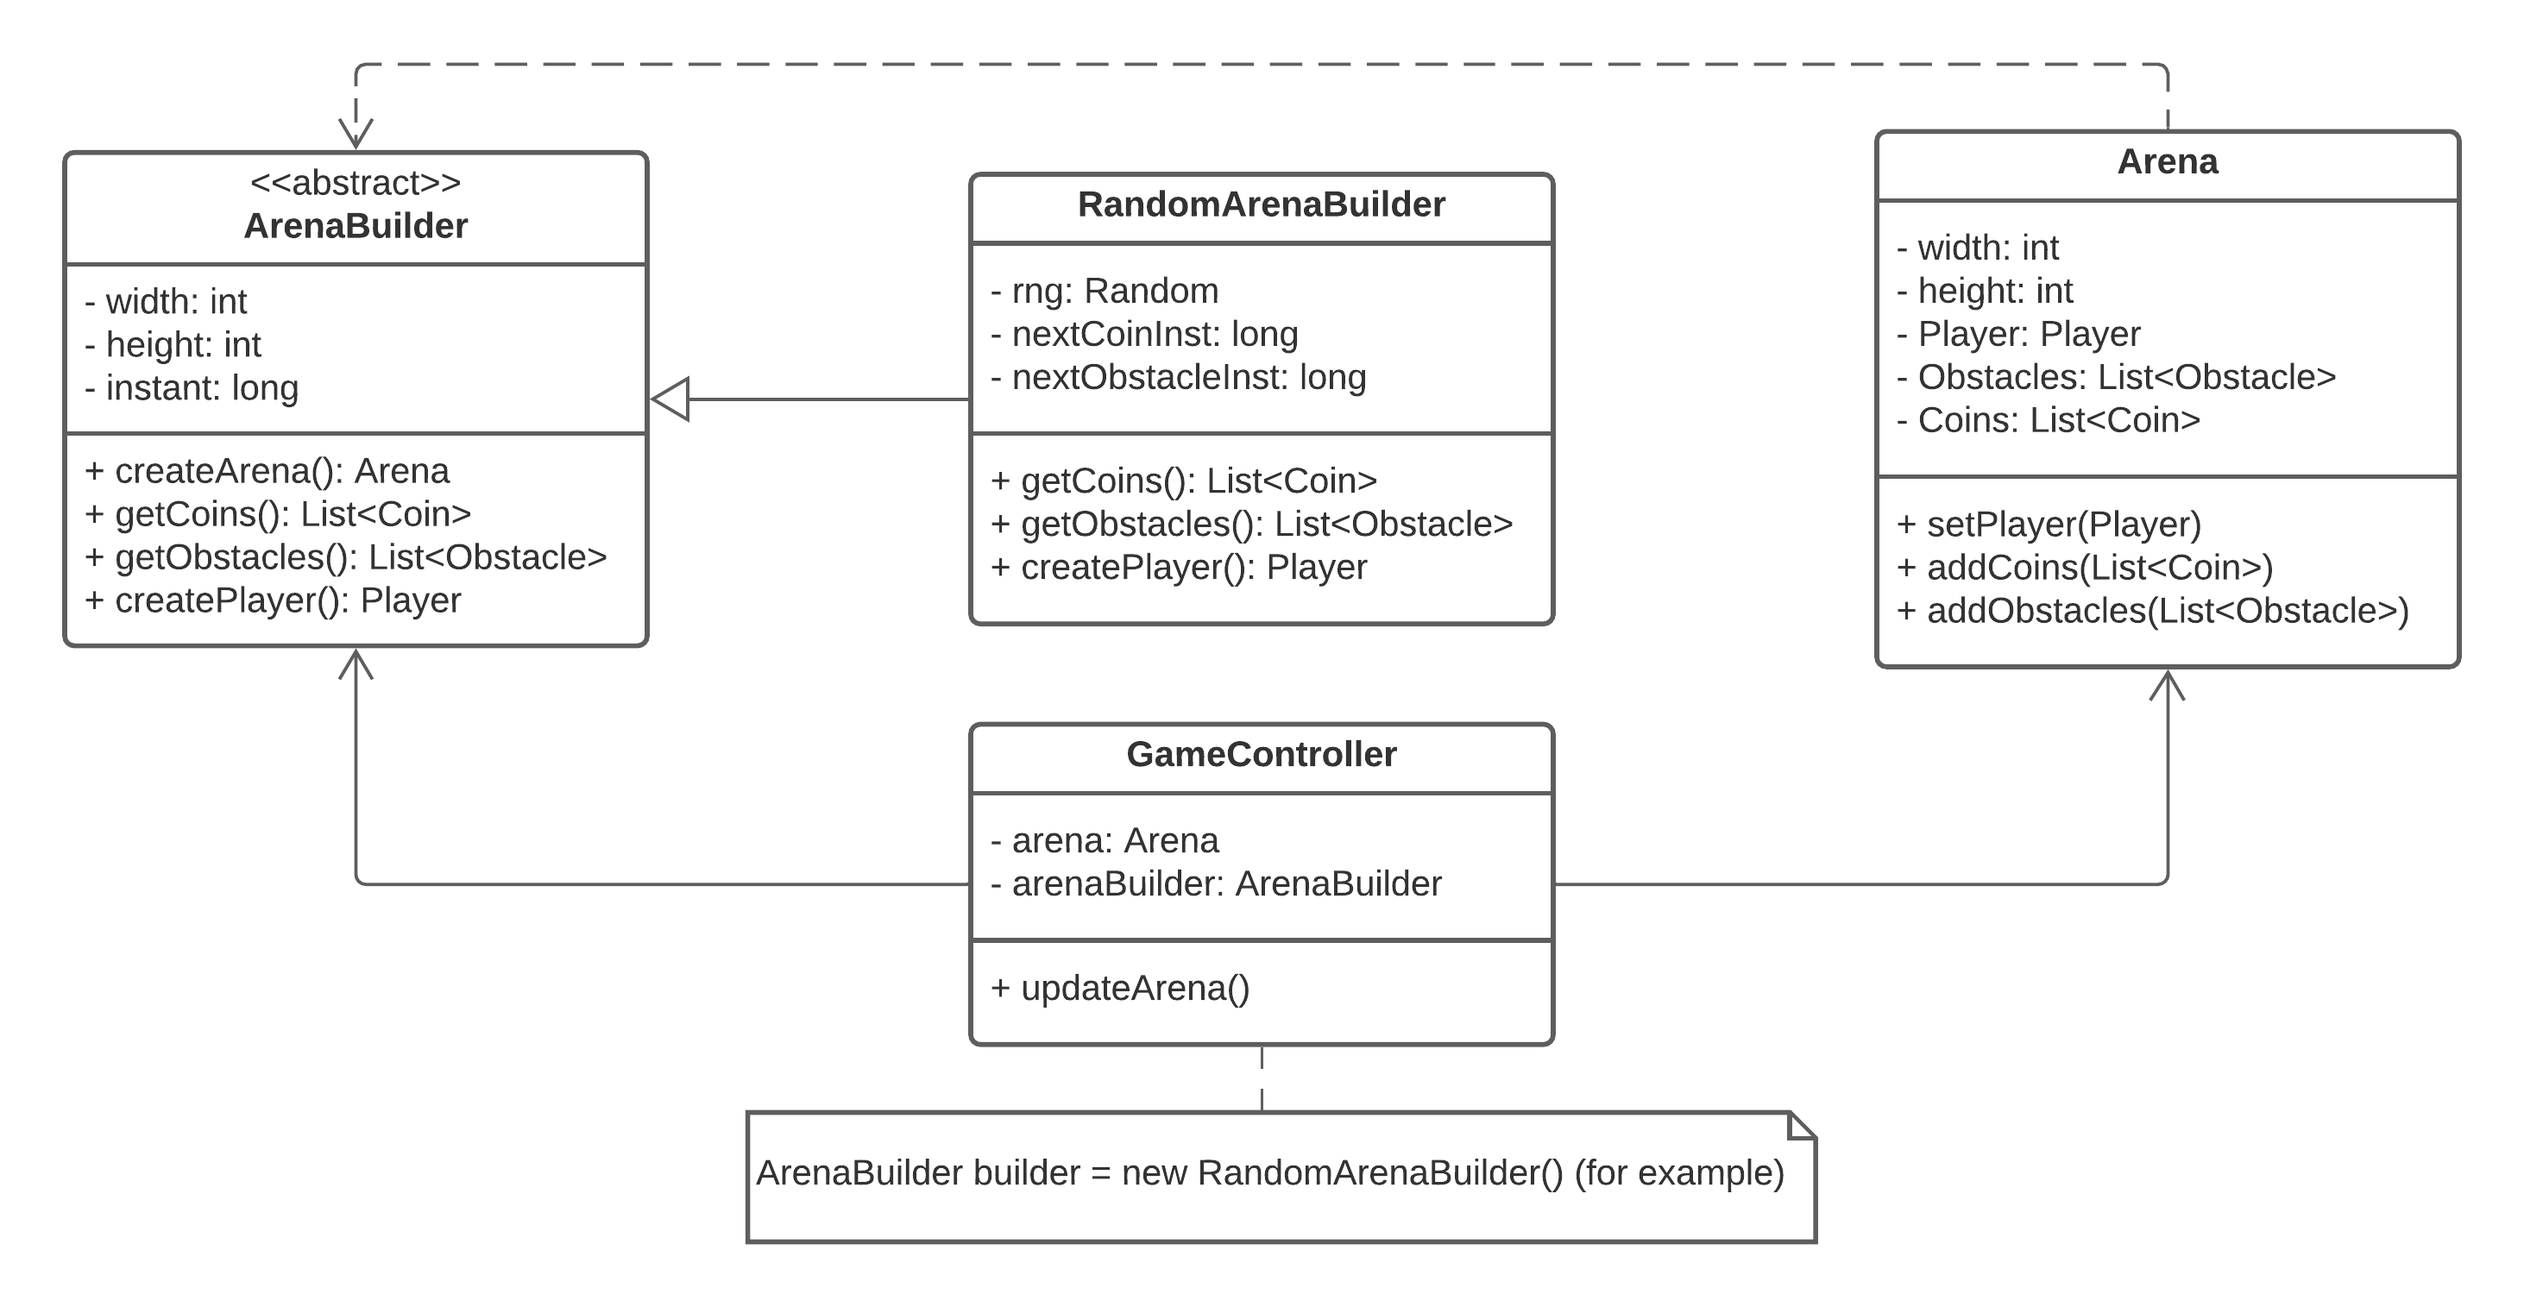
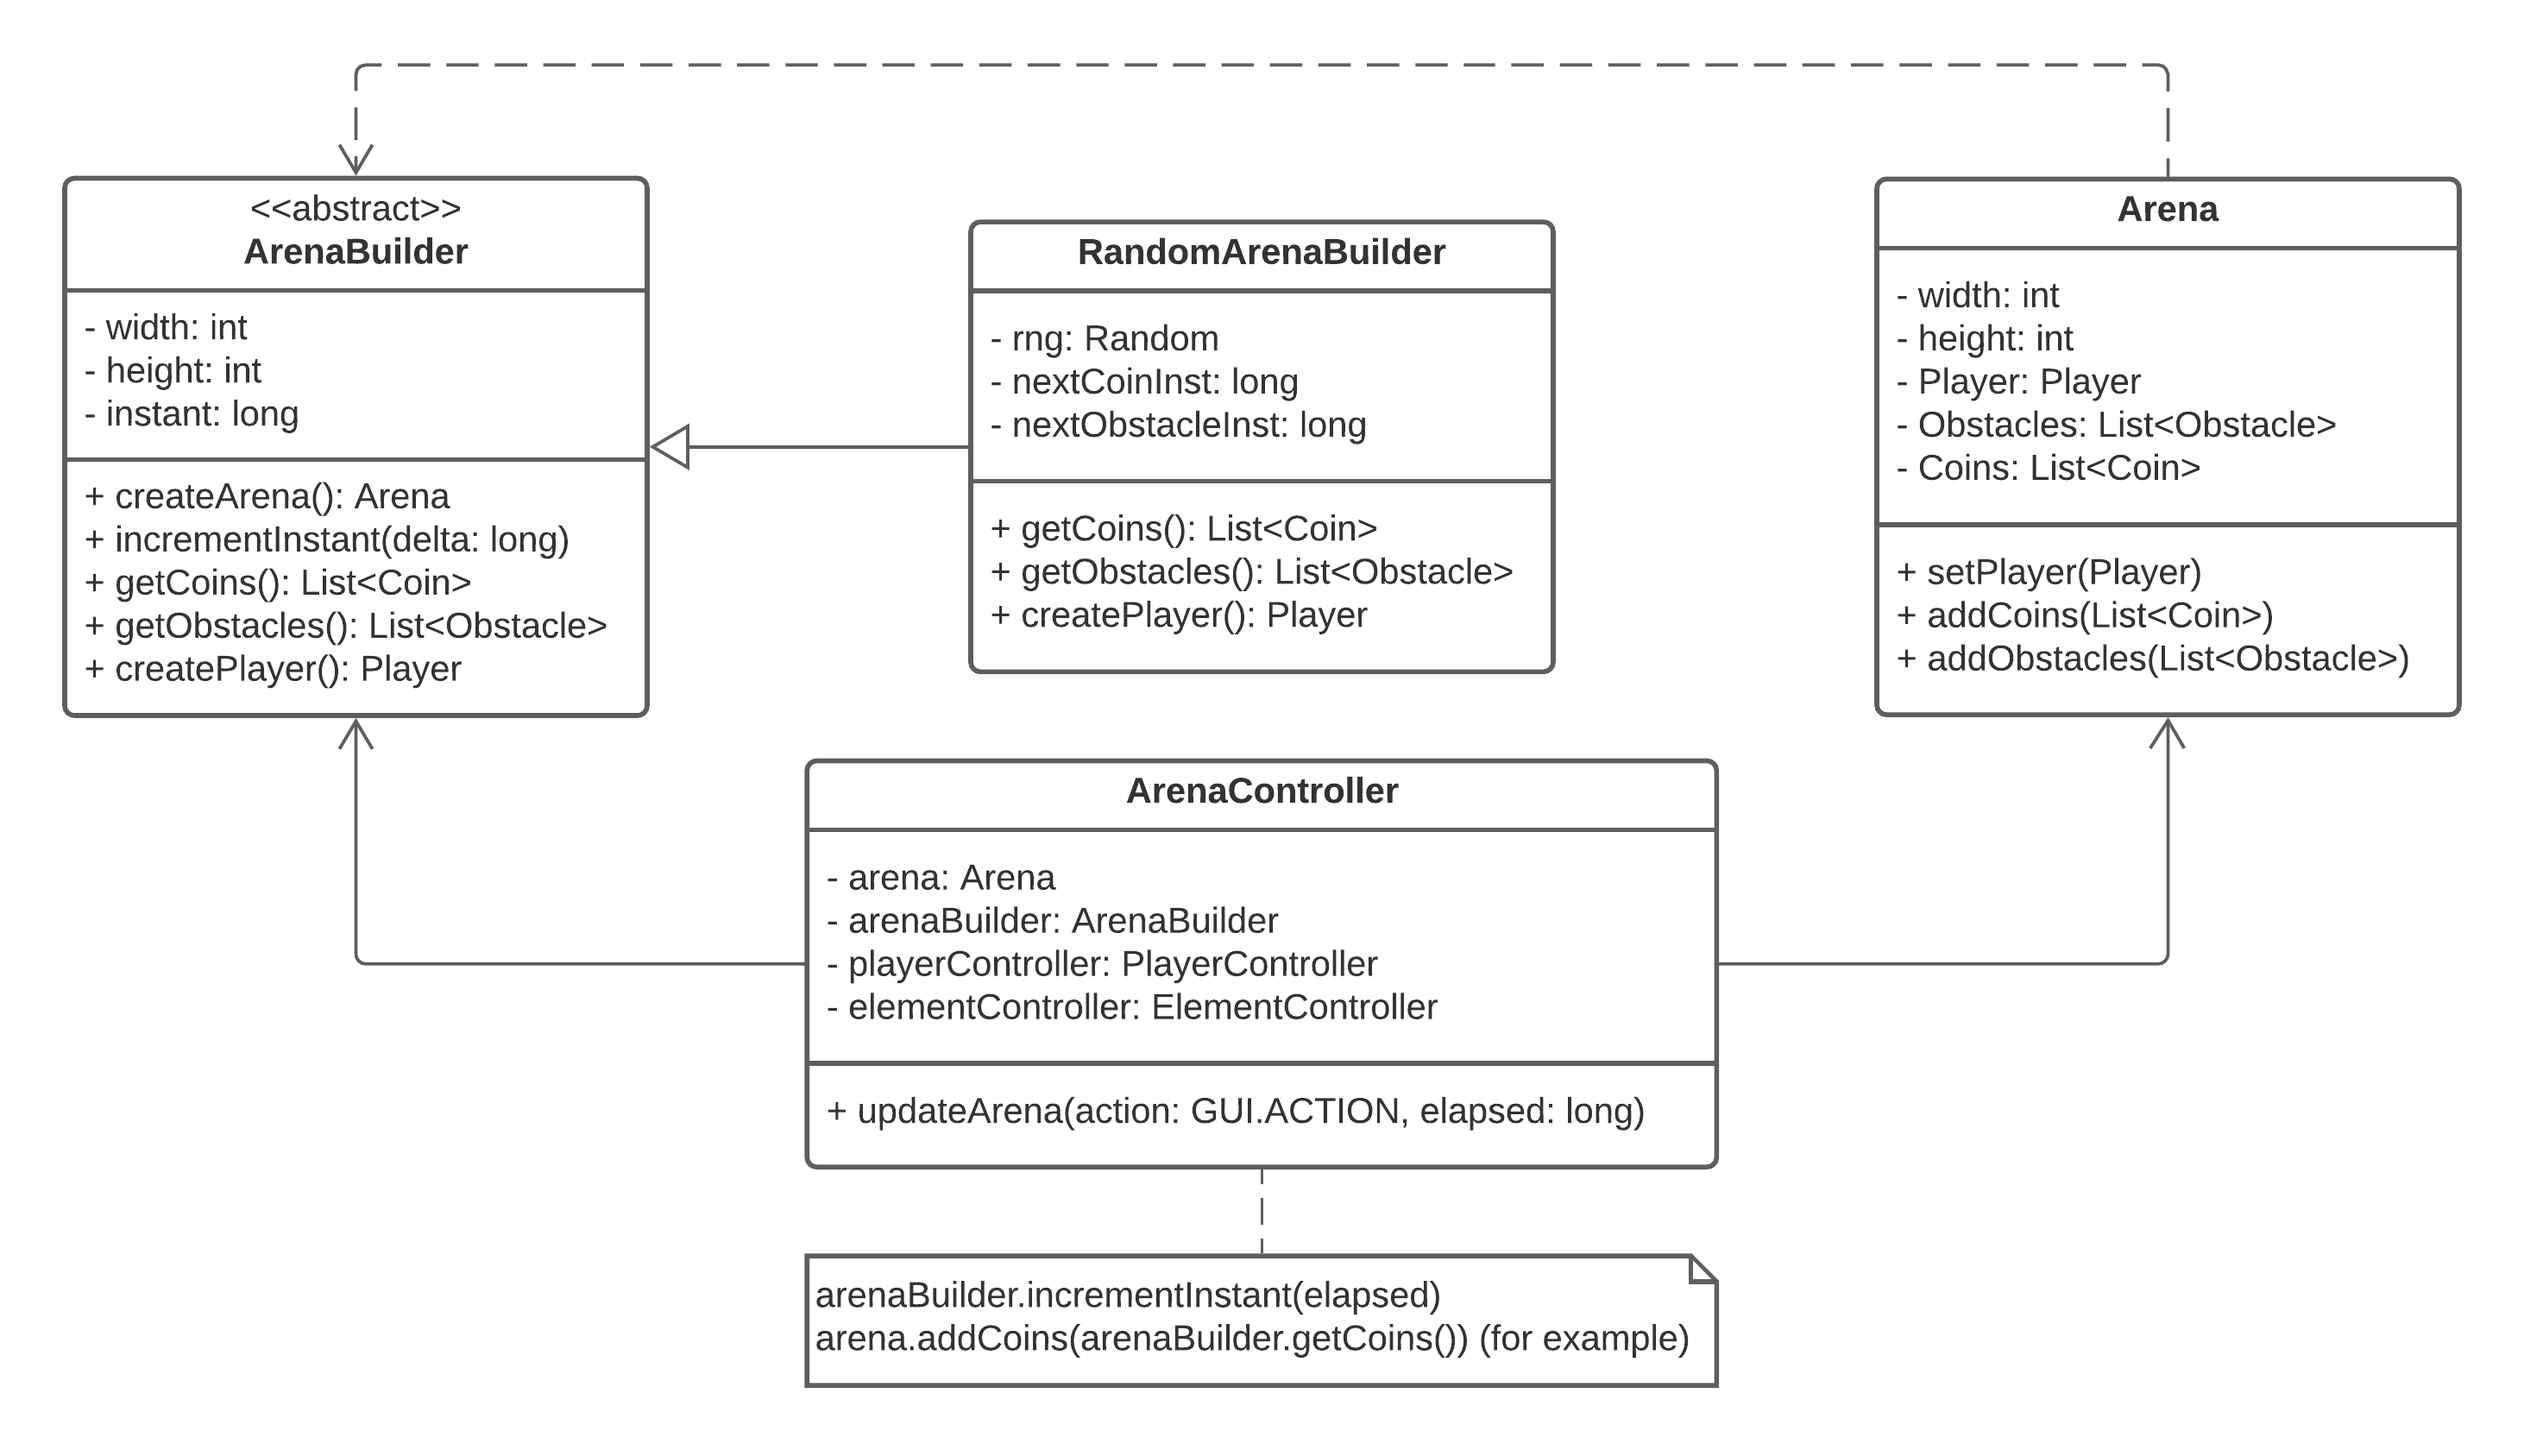
Changed UML, fixed some typos and embellished the report :sparkles:

diff --git a/docs/README.md b/docs/README.md
@@ -62,11 +62,11 @@ To allow the creation of an Arena of multiple ways, randomly or by reading it fr
 
 #### The pattern
 
-To solve this problem, we implemented an Abstract Factory pattern which, depending on the what form of arena creation we want, it creates Arenas specific for it.
+To solve this problem, we implemented an Abstract Factory pattern which, depending on the what form of arena creation we want, it creates specific Arenas accordingly.
 
 #### Implementation
 
-To implement the Abstract Factory we created an abstract class, ArenaBuilder, that specifies what each arena must be able to create (player, coins, obstacles, etc). Then, various options of building an arena can implement/override the methods of the abstract class accordingly, RandomArenaBuilder. If later we wanted to add new methods to create arenas, we only need to specify the target platform when the application starts. This way, the wanted arena builder is instantiated and used throughout the rest of the program, not having to worry with the specific type in use.
+To implement the Abstract Factory we created an abstract class, ArenaBuilder, that specifies what each arena must be able to create (player, coins, obstacles, etc). Then, various options of building an arena can implement/override the methods of the abstract class accordingly. If, for some reason, later we want to add new methods to create arenas, we only need to specify the target platform when the application starts. This way, the wanted arena builder is instantiated and used throughout the rest of the program, not having to worry with the specific type in use.
 
 ![](./images/factory_pattern.png)
 
@@ -81,7 +81,7 @@ In order to control the main cycle of the game, we need a way to make sure the g
 
 #### The pattern
 
-A game loop runs continuously during the gameplay. Each turn of the loop, it processes user input without blocking, updates the game state, and renders the game. It tracks the passage of time to control the rate of gameplay.
+A game loop runs continuously during the gameplay. Each turn it processes the user input without blocking it, updates the game state and renders the game. It tracks the passage of time to control the rate of gameplay.
 
 #### Implementation
 
@@ -94,6 +94,9 @@ To implement the Game Loop pattern we created a class, GameLoop, that contains t
 The Game Loop pattern allow us to have more control in the way the game runs and separate each processing.
 
 ### iii. Movement Strategy
+
+> Not implemented yet!
+
 #### Problem in context
 
 In order for the objects to have different types of movement, we needed to specify their movement.
@@ -105,13 +108,11 @@ To solve this problem we used the Strategy Pattern. This pattern allows us to is
 
 #### Implementation
 
-> TODO
->
+> TODO: UML
 
 #### Consequences
 
-With this pattern, we can eliminate the possibility of differentiating each behaviour with conditional statements and substitute them with classes that have different implementation accordingly.
-In this way, each object does not have to know its type of movement.
+With this pattern, we can eliminate the possibility of differentiating each behavior with conditional statements and substitute them with classes that have different implementation accordingly. In this way, each object does not have to know its type of movement.
 
 ### iv. Game States
 #### Problem in context
@@ -120,7 +121,7 @@ To switch from different states smoothly as the game proceeded. This is useful f
 
 #### The pattern
 
-To implement the different states of the game, we used the State Pattern. This pattern allows the implementation of each state as subclass. If so, we can switch from different states by only switching to another class.
+To implement the different states of the game, we used the State Pattern. This pattern allows the implementation of each state as subclass. If so, we can switch from different states only by switching to another class/state.
 
 #### Implementation
 
@@ -129,10 +130,12 @@ To implement the different states of the game, we used the State Pattern. This p
 #### Consequences
 
 This pattern facilitates the creation of more states for the game and changes to the ones already created.
-The creation of different states can give us freedom to differentiate behaviors depending on the actual stage in the game.
-Also, there's no need to use flags or complex if statements. However, this means that there will be more classes in the game.
+The creation of different states gives us freedom to differentiate behaviors depending on the actual stage in the game. There's also no need to use flags or complex if statements, however, this means that there will be more classes in the game.
 
 ### v. Power Ups
+
+> Not implemented yet!
+
 #### Problem in context
 
 The player may have different attributes/stats throughout the game.
@@ -143,14 +146,11 @@ To implement the power-ups we used the Command Pattern. This pattern consists of
 
 #### Implementation
 
-> TODO
->
+> TODO: UML
 
 #### Consequences
 
-This pattern eases the management and creation of the power-ups.
-
-> TODO: Perfect
+> TODO
 
 ## Code smells and refactoring techniques
 
@@ -158,41 +158,33 @@ This pattern eases the management and creation of the power-ups.
 
 #### Primitive Obsession and Data Clump
 
-Currently, the size of the arena is represented as two integers, which are used several times in different parts of the code.
-This code smell can be fixed by creating a class which will be responsible for managing these variables.
+Currently, the size of the arena is represented as two integers, which are used several times in different parts of the code. This code smell can be fixed by creating a class which will be responsible for managing these variables.
 
 #### Long Parameter List
 
-The method checkBoxCollision() has eight arguments, receiving two points and two dimensions.
-This issue can be solved by change the given parameters to classes that group the variables.
+The method checkBoxCollision() has eight arguments, receiving two points and two dimensions. This issue can be solved by changing the given parameters to classes that'll group the variables.
 
 ### Object-Orientation Abusers
 
 #### Switch Statements
 
-The method responsible to interpret the user input has a lot of if statements to map each input key to an action.
-Unfortunately, it's not easy to solve this problem, as there are no obvious alternatives.
-
-The function responsible for generating random obstacles also has the same issue.
+The method responsible to interpret the user input has a lot of if statements to map each input key to an action. Unfortunately, it's not easy to solve this problem, as there are no obvious alternatives. The function responsible for generating random obstacles also has the same issue.
 
 ### Change Preventers
 
 #### Parallel Inheritance Hierarchies
 
-As we are using the MVC architecture, this implies that almost every object from the Model should have a controller and viewer class.
-Each game state also need to have a correspondent controller and viewer. We thought a lot about this code smell and seems to be no easy fix for this problem without violating the SOLID principles.
+As we are using the MVC architecture, this implies that almost every object from the Model should have a controller and viewer class. Each game state also need to have a correspondent controller and viewer. We thought a lot about this code smell and we haven't encountered an easy fix for this problem without violating the SOLID principles yet.
 
 ### Dispensables
 
 #### Comments
 
-As our project is still in the beginning, it has a lot of comments to help us to understand what we're doing (specially TODO's).
-This should (and will) be fixed in the final delivery.
+As our project is still in the beginning, it has a lot of comments to help us to understand what we're doing (especially TODO's). This should (and will) be fixed in the final delivery.
 
 #### Duplicate Code
 
-Currently, we have a method that has a lot of code fragments which are identical, as we are still thinking about the structure of that specific part.
-We think that this can be fixed improving the code structure and creating generic methods. 
+Currently, we have a method that has a lot of code fragments which are identical, as we are still thinking about the structure of that specific part. We think that this can be fixed improving the code structure and creating generic methods. 
 
 #### Data Class
 
@@ -200,15 +192,13 @@ Our game uses a data class to store the image (structure) of the various element
 
 #### Speculative Generality
 
-We have some methods, like checkImageCollision() and some getters and setters, that are not being used, but were created to support anticipated future features.
-This will obviously be fixed until the final delivery, as these features will be implemented.
+We have some methods, like checkImageCollision() and some getters and setters, that are not being used, but were created to support anticipated future features. This will obviously be fixed until the final delivery, as these features will be used/implemented.
 
 ### Couplers
 
 #### Message Chains
 
-The WindowViewer class calls methods of the ArenaViewer class, that will call some other methods of the ElementViewer class.
-This is a chain of calls that we would like to improve and simplify until the final delivery, by reviewing the structure of the code.
+The WindowViewer class calls methods of the ArenaViewer class, that will call some other methods of the ElementViewer class. This is a chain of calls that we would like to improve and simplify until the final delivery, by reviewing the structure of the code.
 
 ## Testing
 
